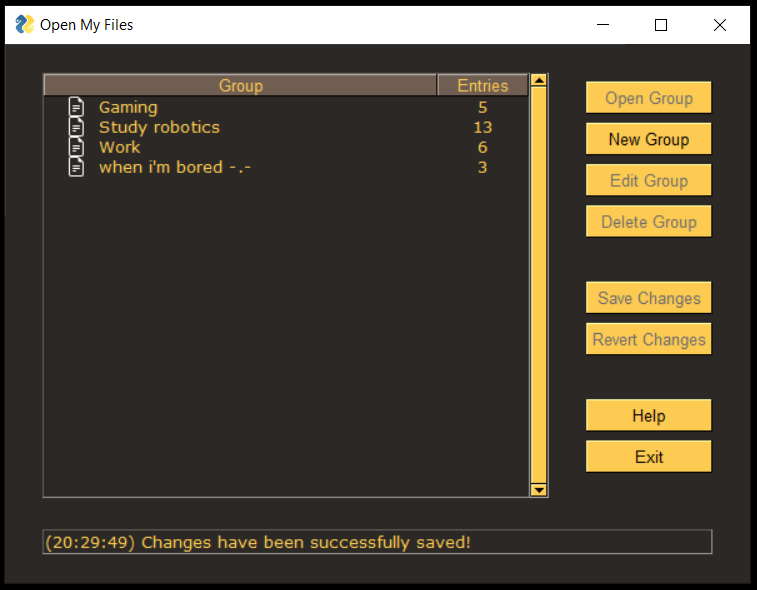
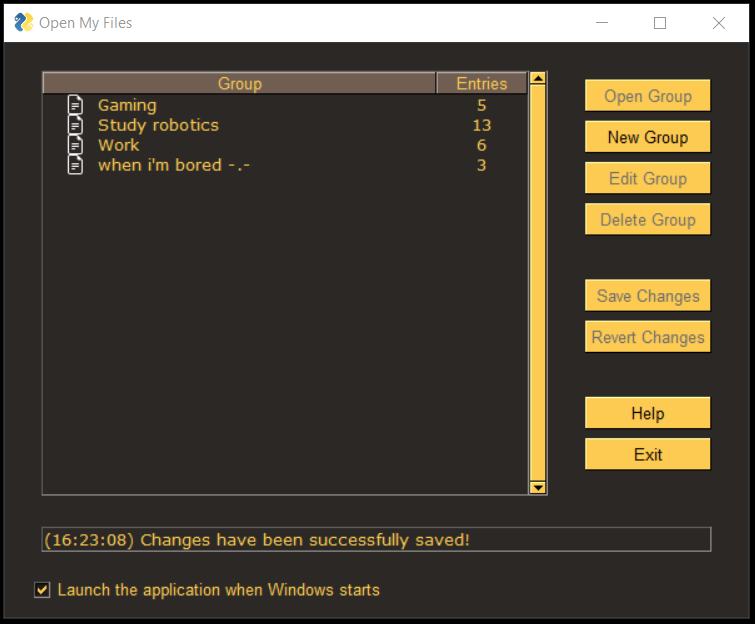
Added option start with windows

Changed region(s): [[0.0, 0.0, 1.0, 1.0], [0.7616, 0.122, 0.9444, 0.8237]]

diff --git a/src/omf.py b/src/omf.py
@@ -1,4 +1,5 @@
 import os
+import sys
 import winreg
 import subprocess
 import threading
@@ -22,6 +23,7 @@ KEY_ENTRY_ID = 'entry_id'
 KEY_ENTRY_PATH = 'entry_path'
 KEY_ENTRY_TYPE = 'entry_type'
 KEY_ENTRY_DETAILS = 'entry_details'
+KEY_SETTING_START_WITH_WINDOWS = 'start_with_windows'
 
 KEY_LAYOUT_MAIN = '-MAIN_LAYOUT-'
 KEY_LAYOUT_GROUP_EDIT = '-GROUP_EDIT_LAYOUT-'
@@ -45,13 +47,15 @@ KEY_BUTTON_BACK_HELP = '-HELP_BACK_BUTTON-'
 KEY_STATUS_BAR = '-STATUS_BAR-'
 KEY_LABEL_GROUP_NAME = '-GROUP_NAME_LABEL-'
 KEY_HYPERLINK_HELP = '-HELP_HYPERLINK-'
+KEY_CHECKBOX_START_WITH_WINDOWS = '-START_WITH_WINDOWS-'
 
 EVENT_OPENING_COMPLETE = '-OPENING_COMPLETE-'
 
-GROUPS_DATA_PATH = os.path.join(os.getenv('LOCALAPPDATA'), 'OpenMyFiles', 'groups.json')
+PATH_GROUPS_DATA = os.path.join(os.getenv('LOCALAPPDATA'), 'OpenMyFiles', 'groups.json')
+PATH_SETTINGS_DATA = os.path.join(os.getenv('LOCALAPPDATA'), 'OpenMyFiles', 'settings.json')
 
 def get_default_browser_path():
-    with winreg.OpenKey(winreg.HKEY_CURRENT_USER, "SOFTWARE\\Microsoft\\Windows\\CurrentVersion\\Explorer\\FileExts\\.html\\UserChoice") as id_key:
+    with winreg.OpenKey(winreg.HKEY_CURRENT_USER, "Software\\Microsoft\\Windows\\CurrentVersion\\Explorer\\FileExts\\.html\\UserChoice") as id_key:
         browser_id = winreg.QueryValueEx(id_key, 'ProgId')[0]
     with winreg.OpenKey(winreg.HKEY_CLASSES_ROOT, f"{browser_id}\\shell\\open\\command") as path_key:
         browser_path = winreg.QueryValueEx(path_key, '')[0]
@@ -60,25 +64,41 @@ def get_default_browser_path():
 DEFAULT_BROWSER_PATH = get_default_browser_path()
 
 class AppData:  
-    def __init__(self, groups_data_path: str) -> None:
+    def __init__(self, groups_path, settings_path) -> None:
+        self.groups_path = groups_path
         self.__saved_groups_data = []
-        self.groups_path = groups_data_path
         self.groups_data = []
+        self.settings_path = settings_path
+        self.__saved_settings = dict()
+        self.settings = dict()
     
-    def load_data(self):
+    def load_groups_data(self):
         if os.path.isfile(self.groups_path):
             with open(self.groups_path, 'r') as f:
                 self.__saved_groups_data = json.load(f)
             self.groups_data = deepcopy(self.__saved_groups_data)
-    
-    def save_data(self):
+
+    def load_settings(self):
+        if os.path.isfile(self.settings_path):
+            with open(self.settings_path, 'r') as f:
+                self.__saved_settings = json.load(f)
+            self.settings = deepcopy(self.__saved_settings)
+
+    def save_group_data(self):
         self.__saved_groups_data = deepcopy(self.groups_data)
         os.makedirs(os.path.split(self.groups_path)[0], exist_ok=True)
         with open(self.groups_path, 'w') as f:
             json.dump(self.__saved_groups_data, f, indent='\t')
     
+    def save_settings(self):
+        self.__saved_settings = deepcopy(self.settings)
+        os.makedirs(os.path.split(self.settings_path)[0], exist_ok=True)
+        with open(self.settings_path, 'w') as f:
+            json.dump(self.__saved_settings, f, indent='\t')
+
     def revert_changes(self):
         self.groups_data = deepcopy(self.__saved_groups_data)
+        self.settings = deepcopy(self.__saved_settings)
     
     def refresh_ids(self, for_groups=False, for_group_with_id=None):
         if for_groups:
@@ -115,6 +135,31 @@ def change_active_layout(to_layout_key):
     window.move_to_center()
     window.reappear()
 
+def save_changes():
+    global app_data
+    app_data.save_group_data()
+    app_data.save_settings()
+    set_start_with_windows(app_data.settings[KEY_SETTING_START_WITH_WINDOWS])
+
+def set_start_with_windows(enabled):
+    app_key = 'OpenMyFiles'
+    path_to_exe = None
+    if enabled:
+        # For using this application as an executable made with PyInstaller:
+        # The PyInstaller way of finding out if this script is running or not as an executable made by PyInstaller.
+        if getattr(sys, 'frozen', False):
+            path_to_exe = f'"{sys.executable}"'
+        else:
+            path_to_exe = f'"{sys.executable}" "{os.path.realpath(__file__)}"'
+    with winreg.OpenKey(winreg.HKEY_CURRENT_USER, "Software\\Microsoft\\Windows\\CurrentVersion\\Run", access=winreg.KEY_SET_VALUE) as reg_key:
+        if path_to_exe is None:
+            try:
+                winreg.DeleteValue(reg_key, app_key)
+            except FileNotFoundError:
+                pass
+        else:
+            winreg.SetValueEx(reg_key, app_key, 0, winreg.REG_SZ, path_to_exe)
+
 def async_group_opening(group_to_open):
     tabs_opened = 0
     for entry in group_to_open[KEY_GROUP_ENTRIES]:
@@ -133,11 +178,13 @@ def async_group_opening(group_to_open):
 
 sg.theme('DarkAmber')
 
-app_data = AppData(GROUPS_DATA_PATH)
-app_data.load_data()
+app_data = AppData(PATH_GROUPS_DATA, PATH_SETTINGS_DATA)
+app_data.load_groups_data()
+app_data.load_settings()
 
-group_to_edit = None
 active_layout_key = KEY_LAYOUT_MAIN
+group_to_edit = None
+should_start_with_windows = None
 
 layout_main = [[
         sg.Tree(create_groups_tree_data(), 
@@ -175,6 +222,11 @@ layout_main = [[
                 pad=((15, 15), (10, 15)), 
                 auto_size_text=True,
                 font=('Verdana', 10, 'normal'))
+    ],[
+        sg.Checkbox('Launch the application when Windows starts', 
+                key=KEY_CHECKBOX_START_WITH_WINDOWS,
+                default=app_data.settings[KEY_SETTING_START_WITH_WINDOWS] if KEY_SETTING_START_WITH_WINDOWS in app_data.settings else False,
+                enable_events=True)
     ]
 ]
 layout_group_edit = [[
@@ -237,7 +289,7 @@ while True:
             response = sg.popup_yes_no('\n== Save changes? ==\n')
             if response is not None:
                 if response == 'Yes':
-                    app_data.save_data()
+                    save_changes()
                 break
 
     elif event == KEY_TREE_MAIN:
@@ -282,13 +334,14 @@ while True:
         window[KEY_BUTTON_REVERT_CHANGES].update(disabled=False)
 
     elif event == KEY_BUTTON_SAVE_CHANGES:
-        app_data.save_data()
+        save_changes()
         window[KEY_BUTTON_SAVE_CHANGES].update(disabled=True)
         window[KEY_BUTTON_REVERT_CHANGES].update(disabled=True)
         window[KEY_STATUS_BAR].update(value=f"({time.strftime('%H:%M:%S', time.localtime())}) Changes have been successfully saved!")
     
     elif event == KEY_BUTTON_REVERT_CHANGES:
         app_data.revert_changes()
+        window[KEY_CHECKBOX_START_WITH_WINDOWS].update(app_data.settings[KEY_SETTING_START_WITH_WINDOWS])
         window[KEY_TREE_MAIN].update(create_groups_tree_data())
         window[KEY_BUTTON_SAVE_CHANGES].update(disabled=True)
         window[KEY_BUTTON_REVERT_CHANGES].update(disabled=True)
@@ -300,6 +353,11 @@ while True:
     elif event == KEY_HYPERLINK_HELP:
         os.startfile('https://github.com/ioan45/open-my-files')
     
+    elif event == KEY_CHECKBOX_START_WITH_WINDOWS:
+        app_data.settings[KEY_SETTING_START_WITH_WINDOWS] = values[KEY_CHECKBOX_START_WITH_WINDOWS]
+        window[KEY_BUTTON_SAVE_CHANGES].update(disabled=False)
+        window[KEY_BUTTON_REVERT_CHANGES].update(disabled=False)
+
     elif event == KEY_BUTTON_BACK_HELP:
         change_active_layout(KEY_LAYOUT_MAIN)
 

diff --git a/README.md b/README.md
@@ -29,7 +29,7 @@ The application is structured as follows:
 
 ### **Main interface**
 
-The main interface contains the list of groups as well as a status bar for application messages. It also contains some buttons:
+The main interface contains the list of groups, a checkbox for setting the application to start with Windows and a status bar for application messages. It also contains some buttons:
 * **Open Group** - Opens all entries added to the selected group. Each non-executable file will be opened using the default application for its type which is specified in the Windows settings. When it comes to web pages, those will be accessed using the default web browser which is set in the Windows settings.
 * **New Group** - Creates an empty group.
 * **Edit Group** - Shows the editing interface for the selected group.
